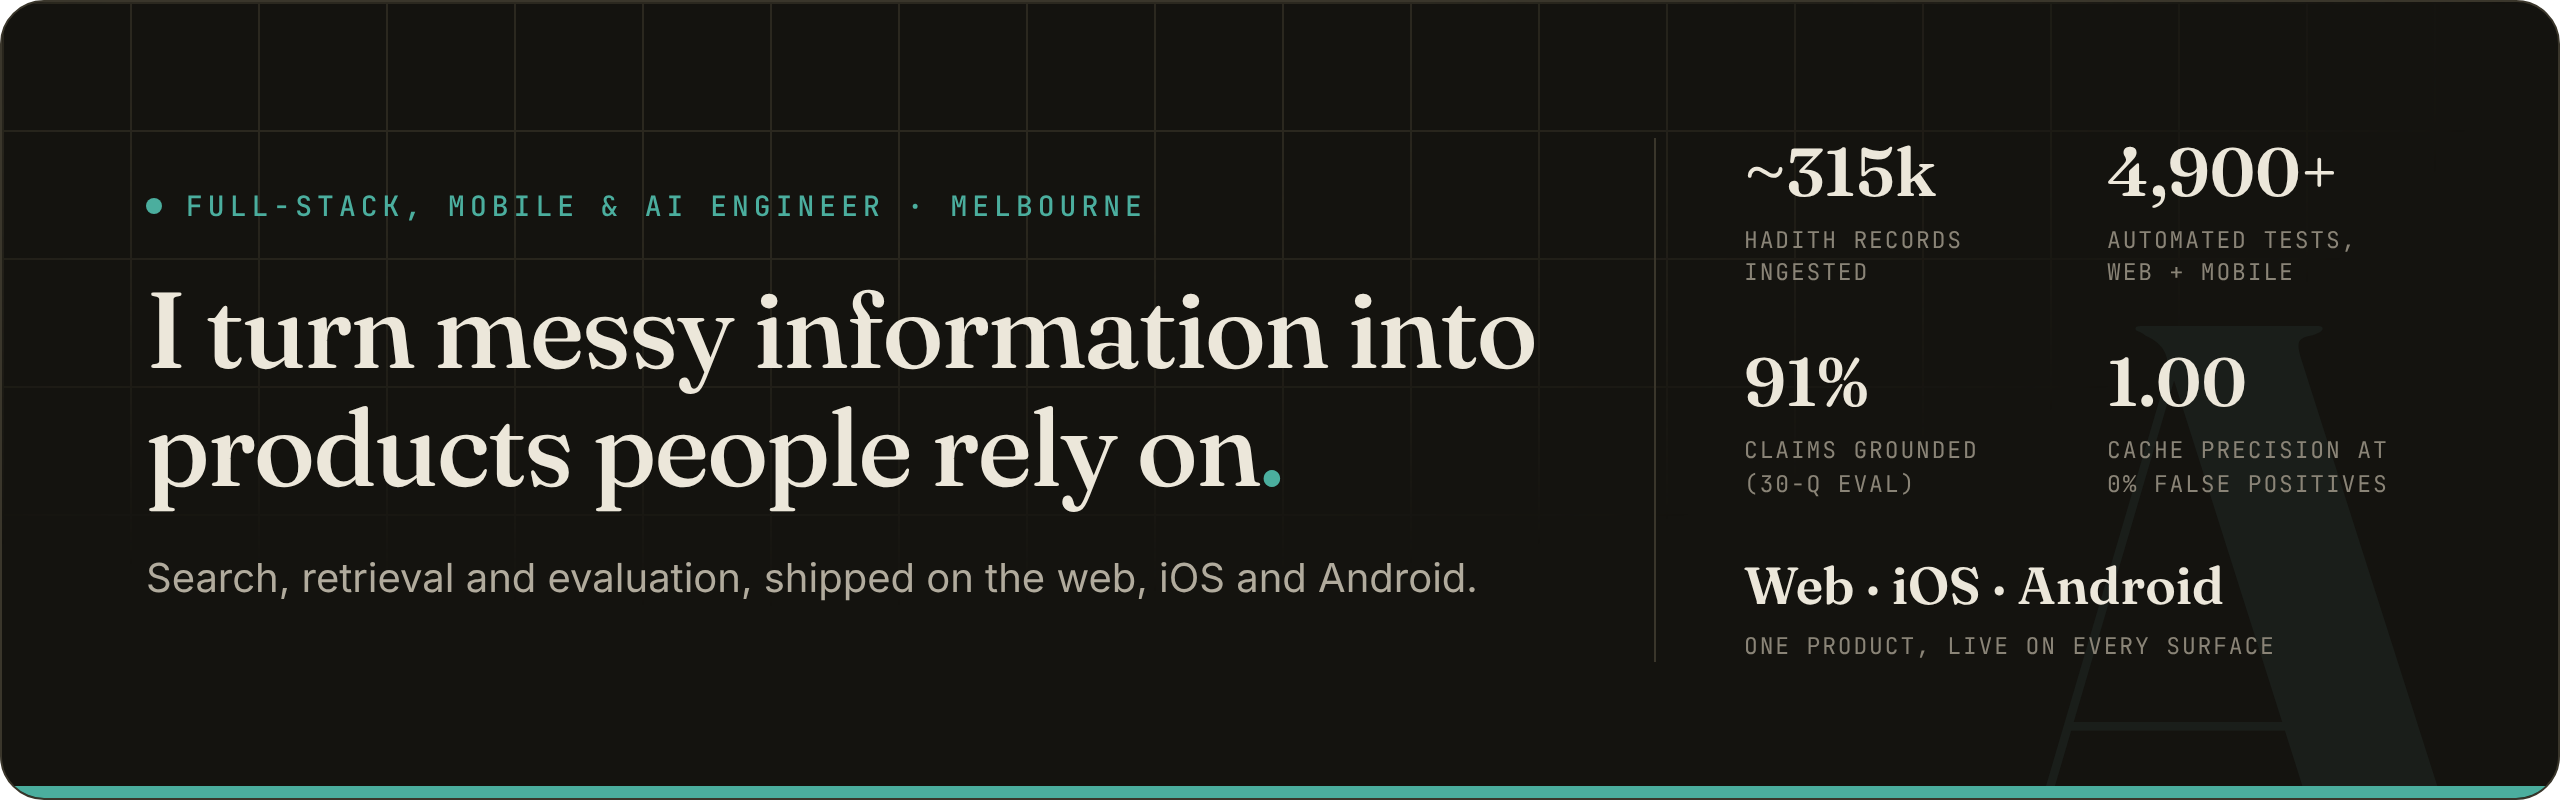
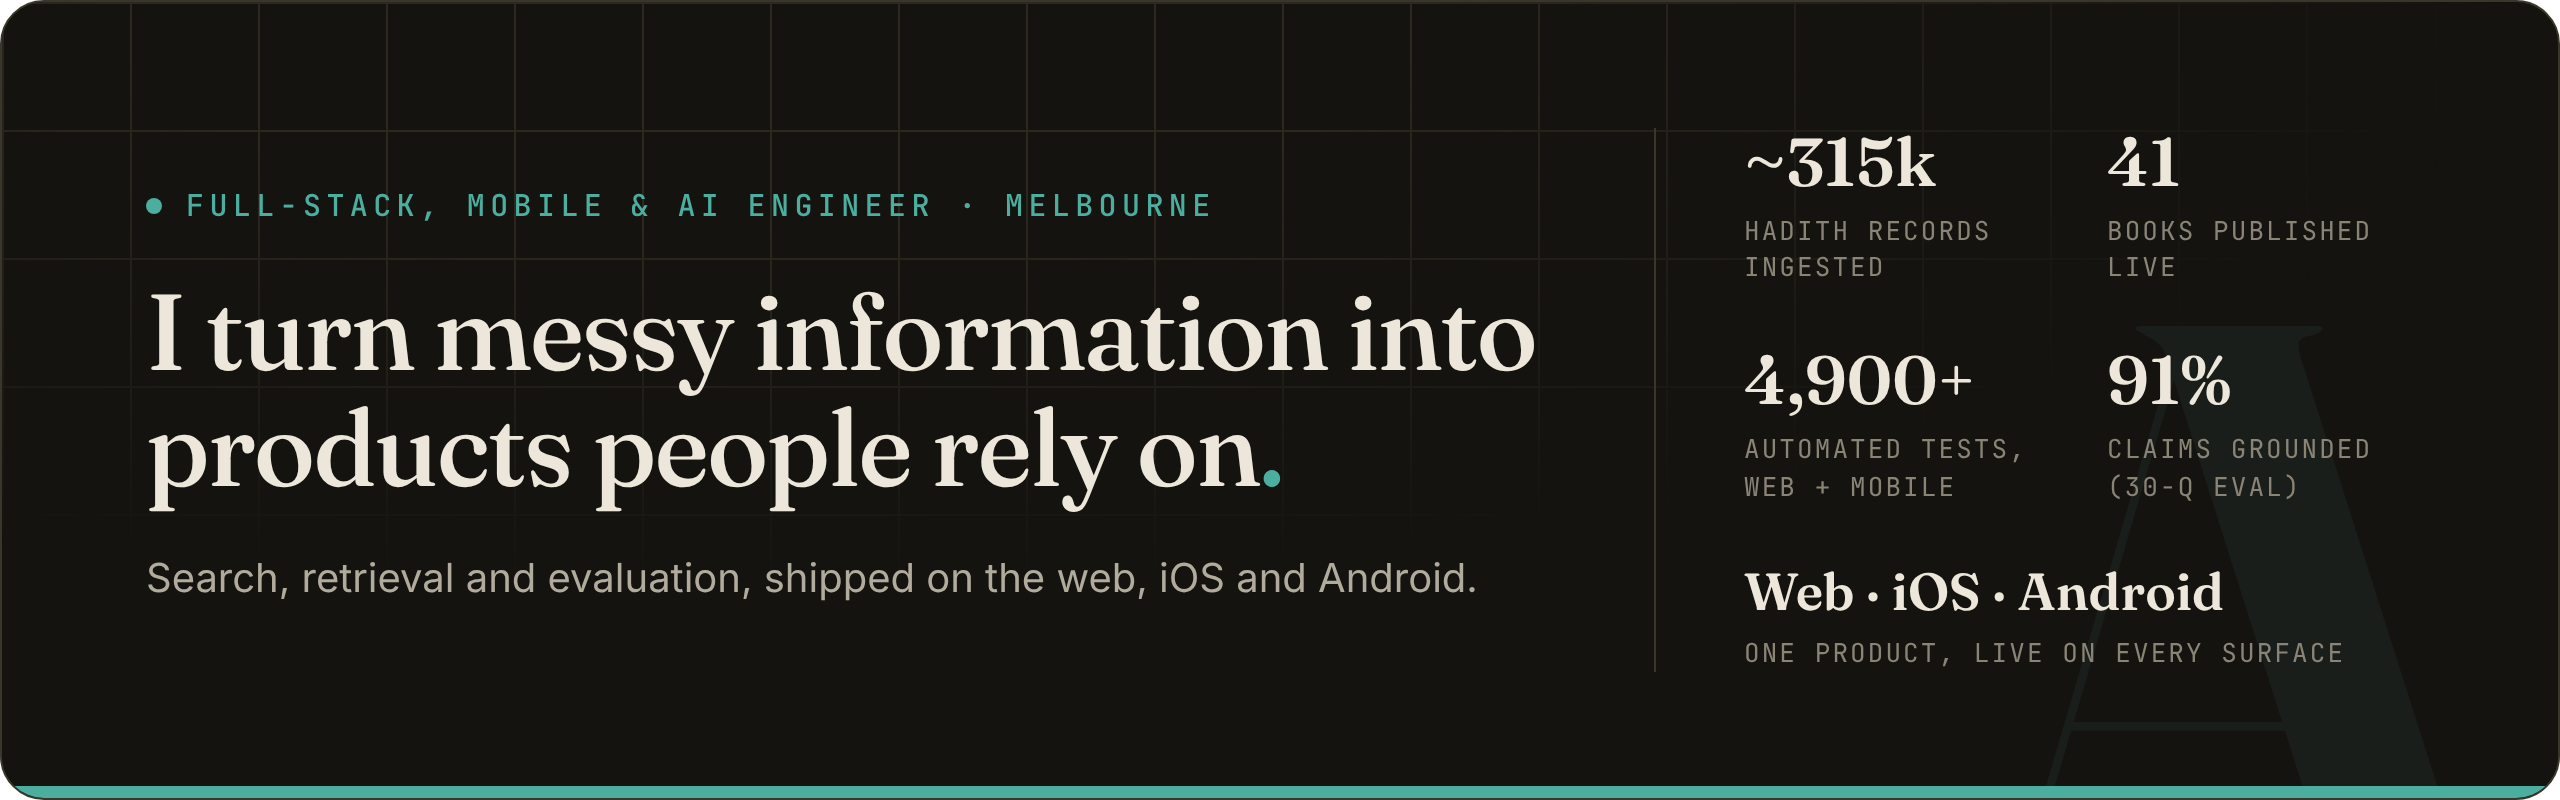
fix: put the review's qualifiers back on every claim
An independent review checked the profile against the portfolio's
project data and found claims stated more strongly than the source:

- Judgelab: kappa 0.767 is decisive cases only. Next to the human
  ceiling (alpha 0.485) it read as the judge beating humans. The project
  concludes the opposite: with ties (0.505) the judge sits at the
  ceiling. Both figures are now shown.
- Gateway: the outage in the playground is forced, and "the industry
  skips" and "if the false-positive rate rises" were absolutes the
  source doesn't make.
- The 91% grounding (30-question eval), Polarity's target set
  (author-created, 75 pairs) and Engram's benchmark (small,
  hand-written) get their test sizes back.
- The banner's fourth metric came from the gateway but sat in a grid
  that reads as Shia Library's. It's now "41 books published live", and
  the labels are larger so they stay legible at README width.
- Degree wording matches the résumé (double degree, 2026). The intro is
  an h2 like the other sections, the Try-it table has an "Open" header,
  and the gateway is named the same in both places.

render-banner.mjs also had a bug: document.fonts.check() returns true
for a family that was never registered, so a blocked stylesheet
rendered fallback fonts silently. It now uses document.fonts.load(),
which fails on a blocked stylesheet or font host and passes when fonts
load.

Claude-Session: https://claude.ai/code/session_017KM44SmhAg8UQPkoHLicaq

diff --git a/assets/banner.html b/assets/banner.html
@@ -74,7 +74,7 @@
     display: flex;
     align-items: center;
     gap: 12px;
-    font: 500 14px/1 "JetBrains Mono", monospace;
+    font: 500 15px/1 "JetBrains Mono", monospace;
     letter-spacing: 0.18em;
     text-transform: uppercase;
     color: var(--accent);
@@ -103,7 +103,7 @@
   .metrics dt { font: 600 34px/1 "Fraunces", serif; color: var(--ink); }
   .metrics dd {
     margin-top: 9px;
-    font: 400 11.5px/1.4 "JetBrains Mono", monospace;
+    font: 400 13px/1.4 "JetBrains Mono", monospace;
     letter-spacing: 0.08em;
     text-transform: uppercase;
     color: var(--ink-faint);
@@ -139,9 +139,9 @@
 
     <dl class="metrics">
       <div><dt>~315k</dt><dd>hadith records ingested</dd></div>
+      <div><dt>41</dt><dd>books published live</dd></div>
       <div><dt>4,900+</dt><dd>automated tests, web + mobile</dd></div>
       <div><dt>91%</dt><dd>claims grounded (30-q eval)</dd></div>
-      <div><dt>1.00</dt><dd>cache precision at 0% false positives</dd></div>
       <div class="platforms"><dt>Web · iOS · Android</dt><dd>one product, live on every surface</dd></div>
     </dl>
 

diff --git a/README.md b/README.md
@@ -1,6 +1,6 @@
 <picture>
   <source media="(prefers-color-scheme: dark)" srcset="assets/banner-dark.png">
-  <img alt="Ali Abbas, full-stack, mobile and AI engineer in Melbourne. I turn messy information into products people rely on." src="assets/banner-light.png" width="100%">
+  <img alt="Ali Abbas, full-stack, mobile and AI engineer in Melbourne. I turn messy information into products people rely on. Shia Library: ~315k hadith records ingested, 41 books published live, 4,900+ automated tests, 91% of claims grounded on a 30-question eval, live on web, iOS and Android." src="assets/banner-light.png" width="100%">
 </picture>
 
 <p align="center">
@@ -9,11 +9,11 @@
   <a href="mailto:ali@alimuhammadi.com"><img alt="Email: ali@alimuhammadi.com" src="https://img.shields.io/badge/Email-ali%40alimuhammadi.com-0b4f47?style=for-the-badge"></a>
 </p>
 
-### Hi, I'm Ali
+## Hi, I'm Ali
 
-Full-stack, mobile and AI engineer in Melbourne, in the final year of a Bachelor of IT & Commerce at Monash University. I build search and AI systems end to end and measure them: answers that cite their source or abstain, semantic caches checked for wrong hits rather than just hit rate, and offline-first apps that never show a half-downloaded book.
+Full-stack, mobile and AI engineer in Melbourne, finishing an IT & Commerce double degree at Monash University (2026). I build search and AI systems end to end and measure them: answers that cite their source or abstain, semantic caches checked for wrong hits rather than just hit rate, and offline-first apps that never show a half-downloaded book.
 
-Right now I run [Shia Library](https://shialibrary.com), a search platform over ~315,000 ingested hadith records, live on the web, the App Store and Google Play from one backend I designed, built and operate alone.
+Right now I run [Shia Library](https://shialibrary.com), a search platform over ~315,000 ingested hadith records (41 books published so far), live on the web, the App Store and Google Play from one backend I designed, built and operate alone.
 
 ## Featured work
 
@@ -24,7 +24,7 @@ Right now I run [Shia Library](https://shialibrary.com), a search platform over 
 <h3><a href="https://alimuhammadi.com/work/shia-library">Shia Library</a></h3>
 
 <sub>Solo · live on web, iOS and Android</sub><br>
-Diacritic-insensitive Arabic, English full-text and semantic search, fused with RRF, plus a cited Ask in beta that grounds 91% of its claims. One Supabase backend serves the web and offline-first React Native apps with native Swift and Kotlin modules.
+Diacritic-insensitive Arabic, English full-text and semantic search, fused with RRF, plus a cited Ask in beta that grounds 91% of claims on a 30-question eval. One Supabase backend serves the web and offline-first React Native apps with native Swift and Kotlin modules.
 
 <a href="https://alimuhammadi.com/work/shia-library">Case study</a> · <a href="https://alimuhammadi.com/work/shia-library-mobile">Mobile case study</a> · <a href="https://shialibrary.com">Live site</a>
 
@@ -50,7 +50,7 @@ Hybrid BM25 and embedding retrieval, answered by Claude with native citations, s
 <h3><a href="https://alimuhammadi.com/work/llm-gateway">LLM Gateway (Veritas)</a></h3>
 
 <sub>Solo · public playground</sub><br>
-A semantic cache measured on the number the industry skips: the precision of its hits. A two-tier guard lifts cache-hit precision from 0.48 to 1.00 at 0% false positives on a 75-pair adversarial set, and CI fails the build if the false-positive rate rises.
+A semantic cache measured on the number most caches don't report: the precision of its hits. A two-tier guard lifts cache-hit precision from 0.48 to 1.00 at 0% false positives on a 75-pair adversarial set, and CI fails the build if the false-positive rate rises above its budget.
 
 <a href="https://gateway.alimuhammadi.com">Live demo</a> · <a href="https://github.com/aliabbas-muhammadi/veritas">Code</a> · <a href="https://alimuhammadi.com/work/llm-gateway">Case study</a>
 
@@ -62,7 +62,7 @@ A semantic cache measured on the number the industry skips: the precision of its
 <h3><a href="https://alimuhammadi.com/work/judgelab">Judgelab</a></h3>
 
 <sub>Solo · open source (MIT)</sub><br>
-How reliable is LLM-as-a-judge? Reproduces GPT-4-vs-human agreement on MT-Bench over 1,814 comparisons and adds what the original left out: Cohen's κ with bootstrap CIs (0.767) and the human–human ceiling (α 0.485). Keyless, and re-derived byte-for-byte in CI.
+How reliable is LLM-as-a-judge? Reproduces GPT-4-vs-human agreement on MT-Bench over 1,814 comparisons and adds what the original left out: chance-corrected Cohen's κ with bootstrap CIs (0.767 on decisive cases, 0.505 with ties), read against the human–human ceiling (α 0.485). Keyless, and re-derived byte-for-byte in CI.
 
 <a href="https://github.com/aliabbas-muhammadi/judgelab">Code</a> · <a href="https://alimuhammadi.com/work/judgelab">Case study</a>
 
@@ -76,7 +76,7 @@ How reliable is LLM-as-a-judge? Reproduces GPT-4-vs-human agreement on MT-Bench 
 <h3><a href="https://alimuhammadi.com/work/polarity">Polarity</a></h3>
 
 <sub>Solo · ML research, source release</sub><br>
-A 184M-parameter DeBERTa-v3 cross-encoder that decides whether two queries can share a cached answer. It recalled 31/31 equivalent pairs with 2/44 false accepts on its target set; weak MRPC transfer (ROC-AUC 0.640) is reported, not hidden.
+A 184M-parameter DeBERTa-v3 cross-encoder that decides whether two queries can share a cached answer. It recalled 31/31 equivalent pairs with 2/44 false accepts on an author-created 75-pair target set; weak MRPC transfer (ROC-AUC 0.640) is reported, not hidden.
 
 <a href="https://github.com/aliabbas-muhammadi/polarity">Code</a> · <a href="https://alimuhammadi.com/work/polarity">Case study</a>
 
@@ -88,7 +88,7 @@ A 184M-parameter DeBERTa-v3 cross-encoder that decides whether two queries can s
 <h3><a href="https://alimuhammadi.com/work/engram">Engram</a></h3>
 
 <sub>Solo · in progress</sub><br>
-Bitemporal memory for agents: every fact records when it became true and when it was learned, and conflicts resolve by named, logged rules instead of last-write-wins. 0/6 stale answers against 3/6 for an append-only memory on its benchmark.
+Bitemporal memory for agents: every fact records when it became true and when it was learned, and conflicts resolve by named, logged rules instead of last-write-wins. 0/6 stale answers against 3/6 for an append-only memory on a small, hand-written benchmark.
 
 <a href="https://github.com/aliabbas-muhammadi/engram">Code</a> · <a href="https://alimuhammadi.com/work/engram">Case study</a>
 
@@ -100,11 +100,11 @@ Bitemporal memory for agents: every fact records when it became true and when it
 
 ## Try it live
 
-| Project | What you can do | |
+| Project | What you can do | Open |
 | --- | --- | --- |
 | [Shia Library](https://alimuhammadi.com/work/shia-library) | Search 41 books of hadith in Arabic or English, with or without diacritics. The iOS and Android apps keep downloaded books readable offline. | [Open](https://shialibrary.com)<br>[App&nbsp;Store](https://alimuhammadi.com/go/shia-library/ios)<br>[Google&nbsp;Play](https://alimuhammadi.com/go/shia-library/android) |
 | [Citation-Grounded RAG](https://alimuhammadi.com/work/citation-rag) | Ask about the U.S. Constitution, the Bill of Rights or the Federalist Papers. Every sentence links to the passage it came from, and a question the documents can't answer gets no answer rather than a guess. | [Ask&nbsp;it](https://ask.alimuhammadi.com) |
-| [LLM Gateway](https://alimuhammadi.com/work/llm-gateway) | A guided tour of the real gateway: a paraphrase served from cache at $0, a negation blocked by the guard, and a provider outage rescued by failover, with live metrics. | [Try&nbsp;it](https://gateway.alimuhammadi.com) |
+| [LLM Gateway (Veritas)](https://alimuhammadi.com/work/llm-gateway) | A guided tour of the gateway: a paraphrase served from cache at $0, a negation blocked by the guard, and a forced provider outage rescued by failover, with live metrics. | [Try&nbsp;it](https://gateway.alimuhammadi.com) |
 
 ## Open-source contributions
 
